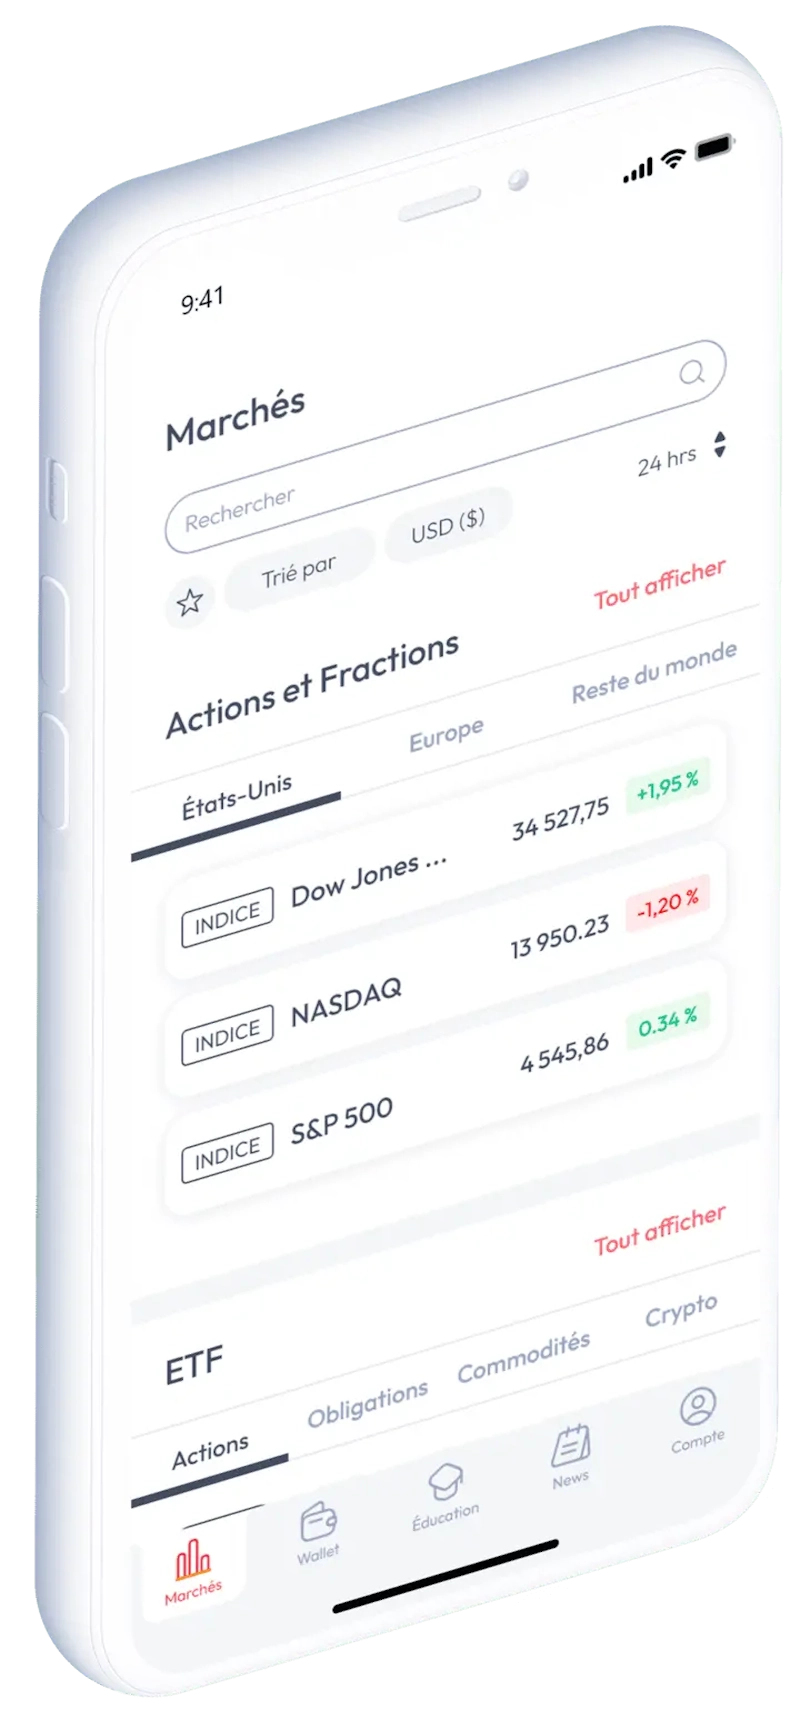
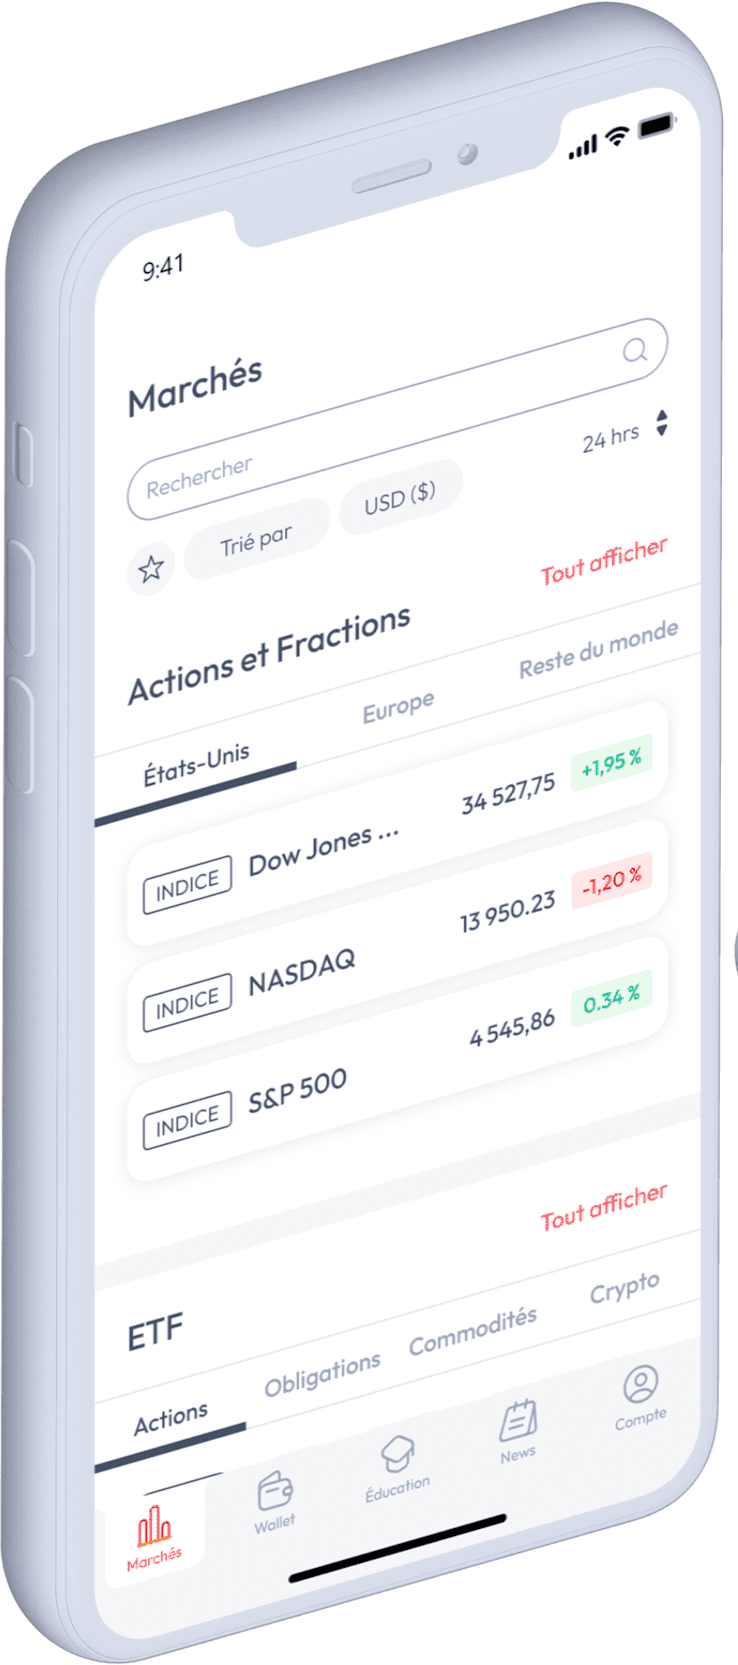
new illustrations + fixes

diff --git a/assets/styles/template.css b/assets/styles/template.css
@@ -39,7 +39,7 @@ header {
     min-height: 76px;
     overflow: visible;
     /* header */
-    background: linear-gradient(269.82deg, rgba(254, 131, 42, 0.4) 0%, rgba(247, 51, 89, 0.4) 100%), rgba(255, 255, 255, 0.8);
+    background: linear-gradient(269.82deg, rgba(254, 131, 42, 0.4) 0%, rgba(247, 51, 89, 0.4) 100%), rgba(255, 255, 255, 1);
 
     /* header-shadow */
     box-shadow: 0px 0px 100px rgba(0, 0, 0, 0.15);
@@ -48,6 +48,11 @@ header {
     flex-direction: column;
     align-items: center;
     justify-content: center;
+
+    position: sticky;
+    top: 0;
+
+    z-index: 1;
 }
 
 .header-container {
@@ -84,9 +89,20 @@ nav a {
     display: none;
 }
 
+footer {
+    width: 100%;
+    background: white;
+
+    display: flex;
+    flex-direction: column;
+    align-items: center;
+}
+
 .footer-container {
-    padding: 93px 182px 114px;
-    background-color: white;
+    padding: 90px 185px 38px;
+    max-width: 1440px;
+    width: 100%;
+    
     /*height: 490px;*/
 }
 
@@ -288,8 +304,64 @@ input[type$="radio"]:checked~label {
     justify-content: center;
 }
 
+
+
+.chat {
+    position: fixed;
+    bottom: 0;
+    height: fit-content;
+    width: fit-content;
+    z-index: 2;
+}
+
+.chat-frame {
+    width: 375px;
+    height: 600px;
+    background-color: transparent;
+
+    position: absolute;
+    bottom: 0;
+
+}
+
+.chat-container {
+    position: relative;
+    width: 375px;
+    height: 600px;
+
+    bottom: 20px;
+    left: 105px;
+}
+
+.close {
+    position: absolute;
+    right: 17px;
+    top: 30px;
+
+    transform: translate(0, -50%);
+
+    cursor: pointer;
+    z-index: 2;
+}
+
+.toggle-chat {
+    position: fixed;
+    bottom: 17px;
+    left: 22px;
+    border: none;
+    background: none;
+
+    z-index: 3;
+    }
+
+.toggle-chat img {
+    width: 70px;
+    height: 70px;
+    cursor: pointer;
+}
+
 .stop-scroll {
-    height: 100vh;
+    /*height: 100vh;*/
     overflow: hidden;
 }
 
@@ -327,6 +399,10 @@ input[type$="radio"]:checked~label {
         display: none;
         overflow: scroll;
         height: calc(100vh - 65px);
+        /*height: auto;*/
+
+        position: sticky;
+        top: 0;
     }
 
     

diff --git a/education.html b/education.html
@@ -79,7 +79,8 @@
         </section>
 
         <section class="videos">
-                <span class="videos-title subtitle-wbg"><span class="down-arrow"></span>Dernières Vidéos</span>
+            <span class="videos-title subtitle-wbg"><span class="down-arrow"></span>Dernières Vidéos</span>
+            <!--card video template-->
             <div class="videos-wrapper">
                 <div class="video-card" onclick="javascript:openVideoOverlay(1);">
                     <img src="./assets/images/temp-thumbnail.webp" alt="thumbnail" class="video-card-thumbnail">
@@ -89,6 +90,7 @@
                     </div>
                 </div>
             </div>
+
         </section>
     </main>
 
@@ -147,7 +149,7 @@
             <section class="video-overlay">
                 <article class="video-overlay-card">
                     <button class="close title-wbg" onclick="closeOverlay()">×</button>
-                    <iframe class="video-frame" src="${"https://www.youtube.com/embed/bXDsW5XTaj4" /*video link*/}" title="YouTube video player" frameborder="0" allow="accelerometer; autoplay; clipboard-write; encrypted-media; gyroscope; picture-in-picture" allowfullscreen></iframe>
+                    <iframe class="video-frame" src="${"" /*video link*/}" title="YouTube video player" frameborder="0" allow="accelerometer; autoplay; clipboard-write; encrypted-media; gyroscope; picture-in-picture" allowfullscreen></iframe>
                     <div class="video-overlay-description">
                         <span class="title-wbg video-overlay-title">${"Lorem Ipsum Dolor" /*Video Title*/}</span>
                         <span class="article-text">${"Lorem ipsum dolor sit amet consectetur adipisicing elit. Nemo tenetur commodi animi eum modi, debitis perferendis, qui sunt nisi et voluptas asperiores tempore? Eius earum repellendus repudiandae beatae rem quaerat!" /*Video Description*/}</span>

diff --git a/assets/styles/home.css b/assets/styles/home.css
@@ -106,9 +106,6 @@
     /*height: var(--hero-content-height);*/
     position: relative;
     transition: opacity 2s ease;
-
-
-
 }
 
 .hero-card {
@@ -500,58 +497,6 @@
     padding-bottom: 90px;
 }
 
-.chat {
-    position: fixed;
-    bottom: 0;
-    height: fit-content;
-    width: fit-content;
-}
-
-.chat-frame {
-    width: 375px;
-    height: 600px;
-    background-color: transparent;
-
-    position: absolute;
-    bottom: 0;
-
-    z-index: 1;
-}
-
-.chat-container {
-    position: relative;
-    width: 375px;
-    height: 600px;
-
-    bottom: 20px;
-    left: 105px;
-}
-
-.close {
-    position: absolute;
-    right: 17px;
-    top: 30px;
-
-    transform: translate(0, -50%);
-
-    cursor: pointer;
-    z-index: 2;
-}
-
-.toggle-chat {
-    position: fixed;
-    bottom: 17px;
-    left: 22px;
-    border: none;
-    background: none;
-    }
-
-.toggle-chat img {
-    width: 70px;
-    height: 70px;
-    cursor: pointer;
-}
-
 @keyframes updown {
     0% {
         top: 50%;
@@ -571,20 +516,20 @@
     transition: top 1.5s ease;
 }*/
 
-.hero-illustration :nth-child(n) {
+/*.hero-illustration :nth-child(n) {
     transition: top 1.5s ease;
-}
+}*/
 
 .phone {
-    transition: top .75s ease-in-out !important;
-    animation: updown 4s cubic-bezier(.45, .05, .55, .95) 0s infinite;
-    -webkit-animation: updown 4s cubic-bezier(.45, .05, .55, .95) 0s infinite;
+    /*transition: top .75s ease-in-out !important;*/
+    animation: updown 4s cubic-bezier(0.445, 0.05, 0.55, 0.95) 0s infinite;
+    -webkit-animation: updown 3s cubic-bezier(0.445, 0.05, 0.55, 0.95) 0s infinite;
 }
 
-.hero-illustration img[src$=".svg"] {
+/*.hero-illustration img[src$=".svg"] {
     animation: updown 8s cubic-bezier(.45, .05, .55, .95) 0s infinite;
 
-}
+}*/
 
 .hero-illustration :not(.phone, .bg-circle, .bg-square) {
     filter: drop-shadow(5px 5px 5px rgba(0, 0, 0, 0.5));

diff --git a/blog.html b/blog.html
@@ -60,13 +60,19 @@
                         <input type="radio" name="filter" id="filter1" checked><label for="filter1">Tout</label>
                     </div>
                     <div>
-                        <input type="radio" name="filter" id="filter2"><label for="filter2">Investissement</label>
+                        <input type="radio" name="filter" id="filter2"><label for="filter2">Marché Actions</label>
                     </div>
                     <div>
-                        <input type="radio" name="filter" id="filter3"><label for="filter3">Cryptomonnaies</label>
+                        <input type="radio" name="filter" id="filter3"><label for="filter3">ETF</label>
                     </div>
                     <div>
-                        <input type="radio" name="filter" id="filter4"><label for="filter4">Blockchain</label>
+                        <input type="radio" name="filter" id="filter4"><label for="filter4">Cryptomonnaies</label>
+                    </div>
+                    <div>
+                        <input type="radio" name="filter" id="filter5"><label for="filter5">Analyses</label>
+                    </div>
+                    <div>
+                        <input type="radio" name="filter" id="filter6"><label for="filter6">Finance Personnelle</label>
                     </div>
                 </div>
             </div>

diff --git a/index.html b/index.html
@@ -392,33 +392,7 @@
     <button class="toggle-chat" id="toggle-chat">
         <img src="./assets/svgs/send.svg" alt="Toggle Chat">
     </button>
-    <script>
-        const openChat = () => {
-            var chat = document.getElementById('chat');
-
-            chat.classList.remove('invisible')
-        }
-
-        const closeChat = () => {
-            var chat = document.getElementById('chat');
-
-            chat.classList.add('invisible')
-        }
-
-        const toggleChat = () => {
-            var chat = document.getElementById('chat');
-
-            if (chat.classList.contains('invisible')) {
-                openChat();
-            } else {
-                closeChat();
-            }
-        }
-
-        document.getElementById('toggle-chat').onclick = () => toggleChat();
-
-        document.getElementById('close').onclick = () => closeChat();
-    </script>
+    <script src="./assets/scripts/chat.js"></script>
     <script src="./assets/scripts/header.js"></script>
 </body>
 

diff --git a/assets/scripts/chat.js b/assets/scripts/chat.js
@@ -1,0 +1,27 @@
+const openChat = () => {
+    var chat = document.getElementById('chat');
+
+    chat.classList.remove('invisible');
+    document.body.classList.add('stop-scroll')
+}
+
+const closeChat = () => {
+    var chat = document.getElementById('chat');
+
+    chat.classList.add('invisible')
+    document.body.classList.remove('stop-scroll')
+}
+
+const toggleChat = () => {
+    var chat = document.getElementById('chat');
+
+    if (chat.classList.contains('invisible')) {
+        openChat();
+    } else {
+        closeChat();
+    }
+}
+
+document.getElementById('toggle-chat').onclick = () => toggleChat();
+
+document.getElementById('close').onclick = () => closeChat();

diff --git a/assets/styles/admin.css b/assets/styles/admin.css
@@ -21,7 +21,7 @@ main
 
 #toolbar, #editor {
     width: 100%;
-    max-width: 1440px;
+    max-width: 1010px;
     background-color: white;
 
     border: none;
@@ -32,6 +32,21 @@ main
 
 #editor {
     height: 500px;
+    z-index: 0;
+
+    overflow-wrap: break-word;
+    word-wrap: break-word;
+}
+
+.ql-editor {
+    width: inherit;
+    max-width: inherit;
+    overflow-wrap: inherit;
+    word-wrap: inherit;
+}
+
+#toolbar {
+    z-index: 1;
 }
 
 input[type$='text'] {
@@ -219,5 +234,9 @@ table {
     .tg-wrap {
         overflow-x: auto;
         -webkit-overflow-scrolling: touch;
+    }
+
+    .article-form {
+        padding: 100px 15px;
     }
 }
